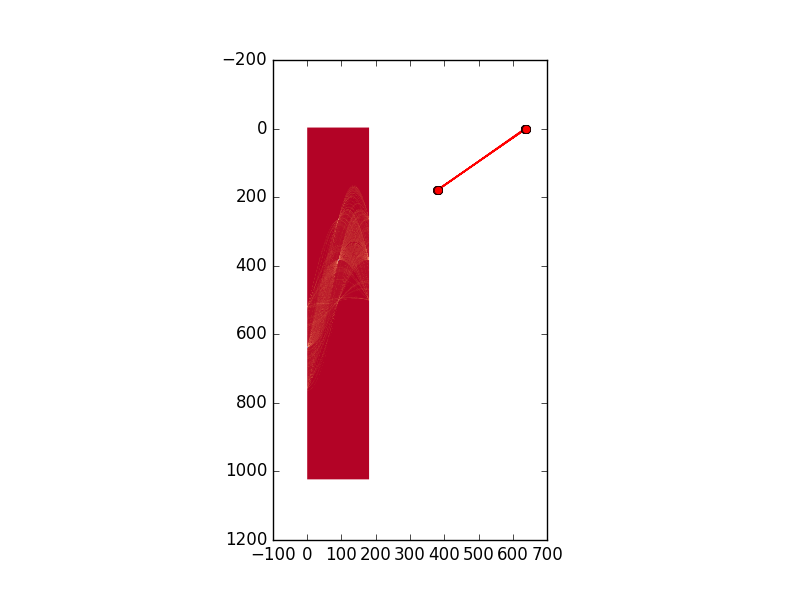
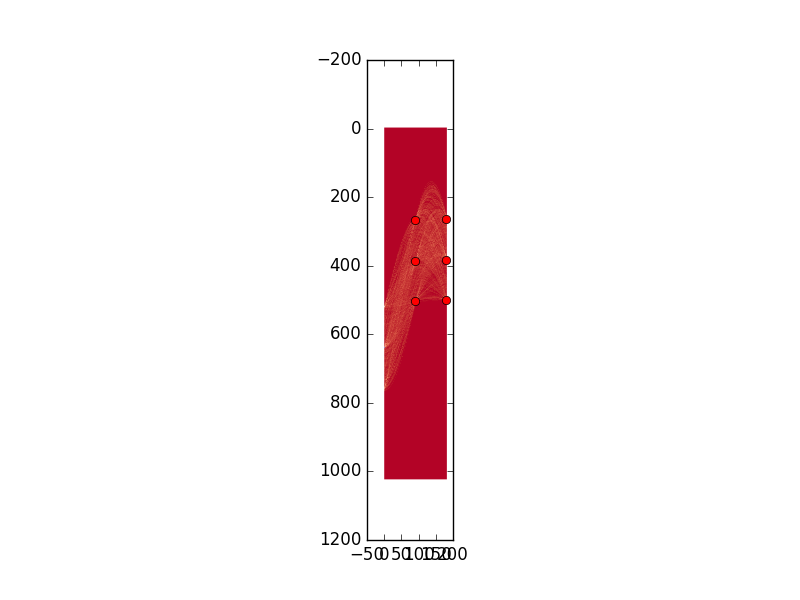
PS1.3

Changed region(s): [[0.2812, 0.09, 0.7188, 0.96]]

diff --git a/ps1_python/ps1_3.py b/ps1_python/ps1_3.py
@@ -1,14 +1,15 @@
 import cv2
+from ps1_python.hough_lines import *
 from matplotlib import pyplot as plt
 
-PATH_in = "ProblemSets/ps1_python/input/"
-PATH_out = "ProblemSets/ps1_python/output/"
+PATH_in = "input/"
+PATH_out = "output/"
 
-img_origin = cv2.imread(PATH_in + "ps1-input0-noise.png")
+img_origin = cv2.imread(PATH_in + "ps1-input0-noise.png", 0)
 
 img_origin_canny = cv2.Canny(img_origin, 100, 100)
 
-img_smooth = cv2.GaussianBlur(img_origin, (11, 11), 0)
+img_smooth = cv2.GaussianBlur(img_origin, (9, 9), 0)
 
 img_smooth_canny = cv2.Canny(img_smooth, 150, 150)
 
@@ -17,7 +18,7 @@ img_nonoise = cv2.imread(PATH_in + "ps1-input0.png")
 img_nonoise_canny = cv2.Canny(img_nonoise, 100, 100)
 
 plt.subplot(321)
-plt.imshow(img_origin)
+plt.imshow(img_origin, cmap="Greys_r")
 plt.subplot(322)
 plt.imshow(img_origin_canny, cmap="Greys_r")
 #plt.imsave(PATH_out+"ps1-3-b-1.png", img_origin_canny, cmap="Greys_r")
@@ -31,5 +32,23 @@ plt.subplot(325)
 plt.imshow(img_nonoise, cmap="Greys_r")
 plt.subplot(326)
 plt.imshow(img_nonoise_canny, cmap="Greys_r")
+
+h, t, r = hough_lines_acc(img_smooth_canny)
+
+peaks = hough_peaks(h, 6, threshold=50, neighborhood_size=20)
+
+print peaks
+
+plt.figure(3)
+plt.imshow(h, cmap="coolwarm_r")
+
+x_list = [x for (x,y) in peaks]
+y_list = [y for (x,y) in peaks]
+
+plt.plot(y_list, x_list, "ro")
+plt.savefig(PATH_out + "ps1-3-c-1.png")
+
+
+hough_lines_draw(img_smooth, PATH_out + "ps1-3-c-2.png", peaks)
 
 plt.show()

diff --git a/ps1_python/hough_lines.py b/ps1_python/hough_lines.py
@@ -47,6 +47,7 @@ def hough_peaks(acc, num, threshold = 60, neighborhood_size = 10):
 
 def hough_lines_draw(img, outname, peaks, rhoResolution=1.0, theta=range(0, 180, 1)):
 	plt.figure(2)
+	print img.shape
 	row, col = img.shape
 	plt.imshow(img, cmap="Greys_r")
 	for (d, t) in peaks:
@@ -55,9 +56,9 @@ def hough_lines_draw(img, outname, peaks, rhoResolution=1.0, theta=range(0, 180,
 			y = [1/math.sin(math.radians(t))* (math.cos(math.radians(t))* i - (d-row-col)) for i in x]
 			plt.plot(x, y, color="red")
 		else:
-			plt.vlines((d-row-col), ymin=0, ymax=row, color="red")
+			plt.vlines(abs(d-row-col), ymin=0, ymax=row, color="red")
 
-	plt.savefig(PATH_out + outname)
+	plt.savefig(outname)
 	plt.show()
 
 
@@ -87,6 +88,6 @@ if __name__ == '__main__':
 
 	# plt.show()
 
-	hough_lines_draw(img, outname="ps1-2-c-1.png", peaks=peaks, rhoResolution=r, theta=t)
+	hough_lines_draw(img, outname=PATH_out + "ps1-2-c-1.png", peaks=peaks, rhoResolution=r, theta=t)
 
 	plt.show()
